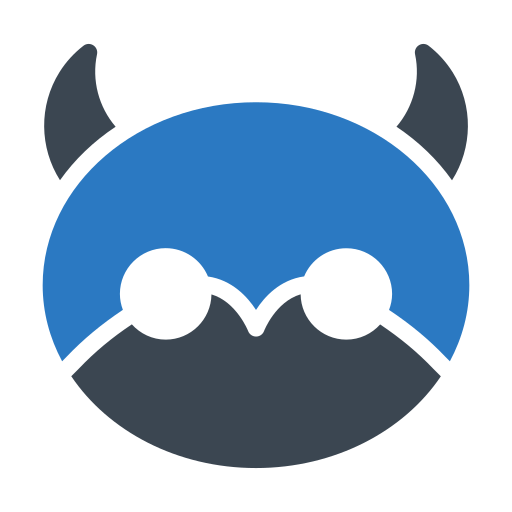
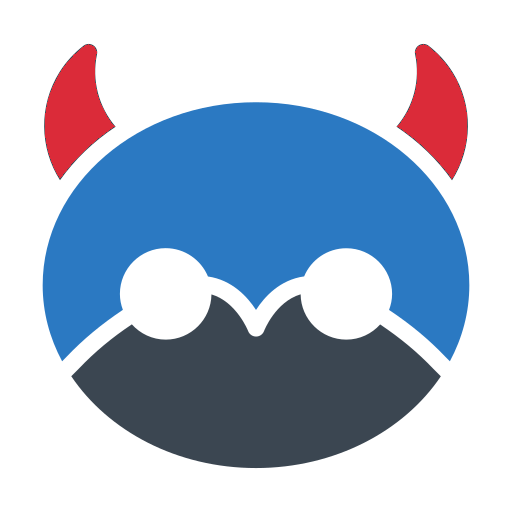
Update UI colors and monster image
Changed color values for star and hot icons in Article.vue and the unread category background in Sidebar.vue to improve visual consistency. Updated monster.png image asset.

Changed region(s): [[0.7812, 0.0625, 0.9375, 0.3438], [0.0625, 0.0625, 0.2188, 0.3438]]

diff --git a/client/src/components/Article.vue b/client/src/components/Article.vue
@@ -113,7 +113,7 @@
 }
 
 .star-icon {
-  color: #dc3545;
+  color: #DB2B39;
   margin-right: 4px;
   vertical-align: middle;
 }
@@ -126,7 +126,7 @@
 
 
 .hot-icon {
-  color: #e36209;
+  color: #F3A712;
   margin-right: 4px;
   vertical-align: middle;
 }

diff --git a/client/src/components/Sidebar.vue b/client/src/components/Sidebar.vue
@@ -268,7 +268,7 @@
 }
 
 #unreadsSinceLastUpdate.sidebar-category-top {
-	background-color: #536f5b;
+	background-color: #DB2B39;
 }
 
 .sidebar-category-feed,
